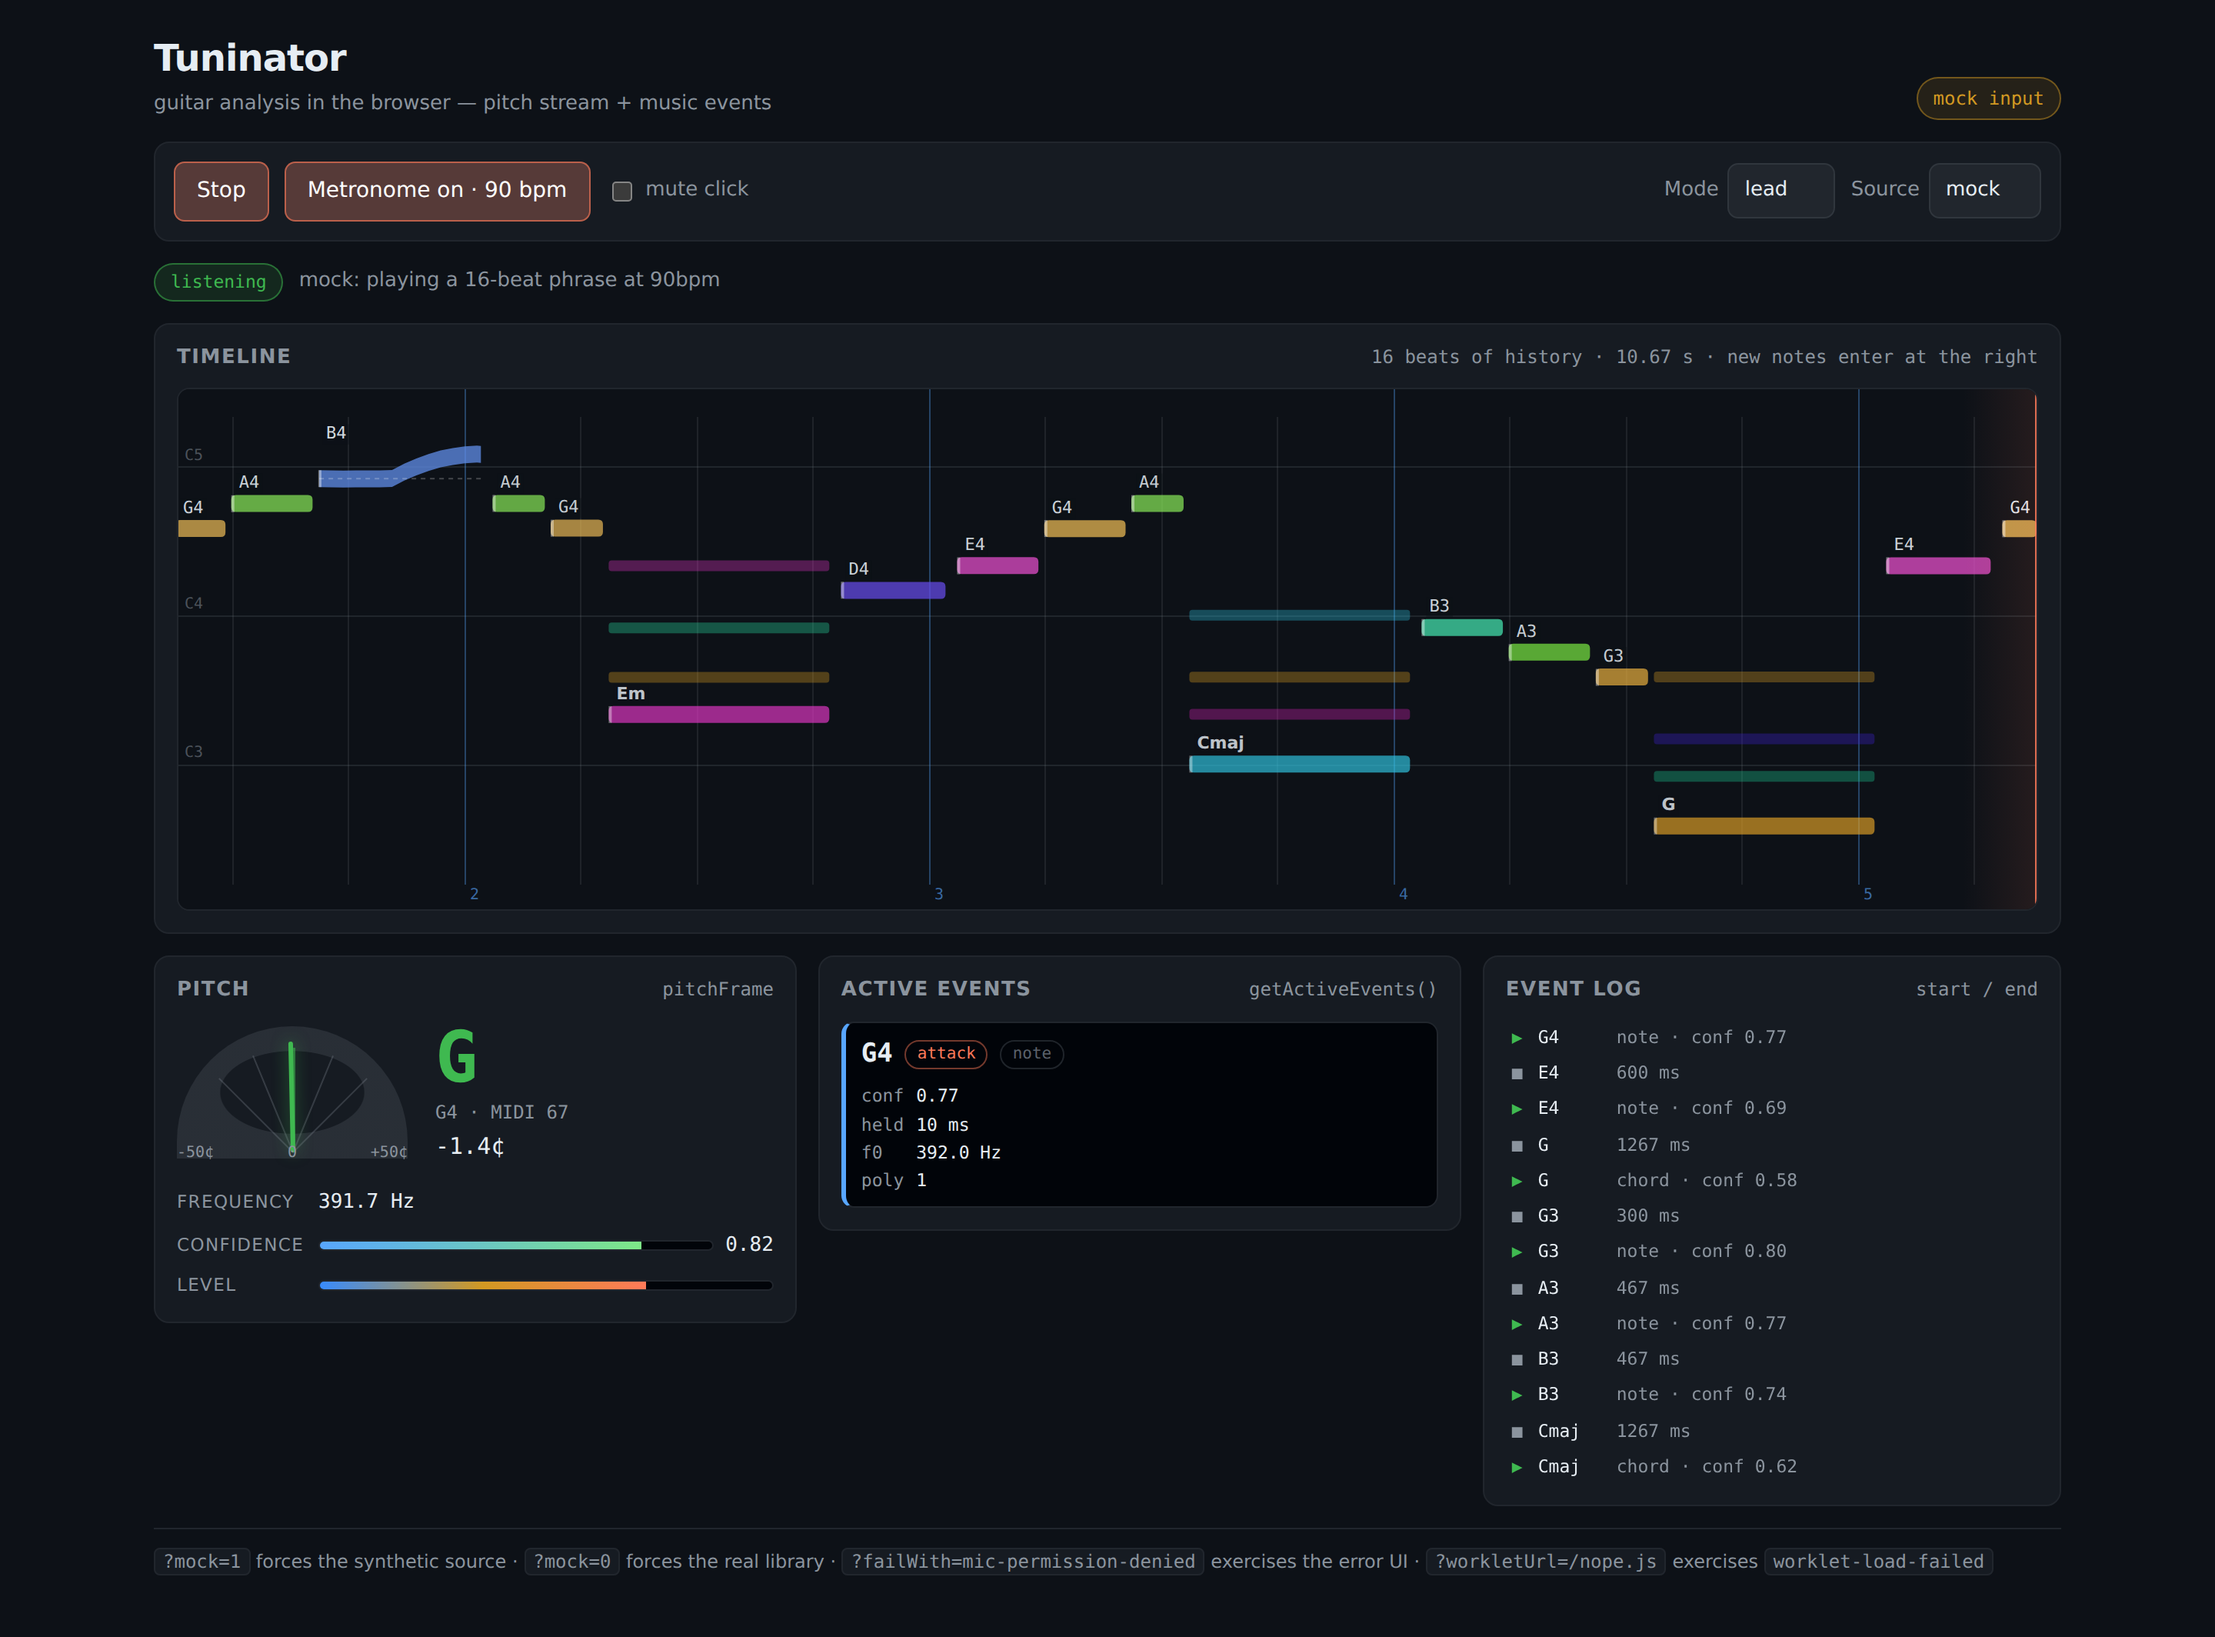
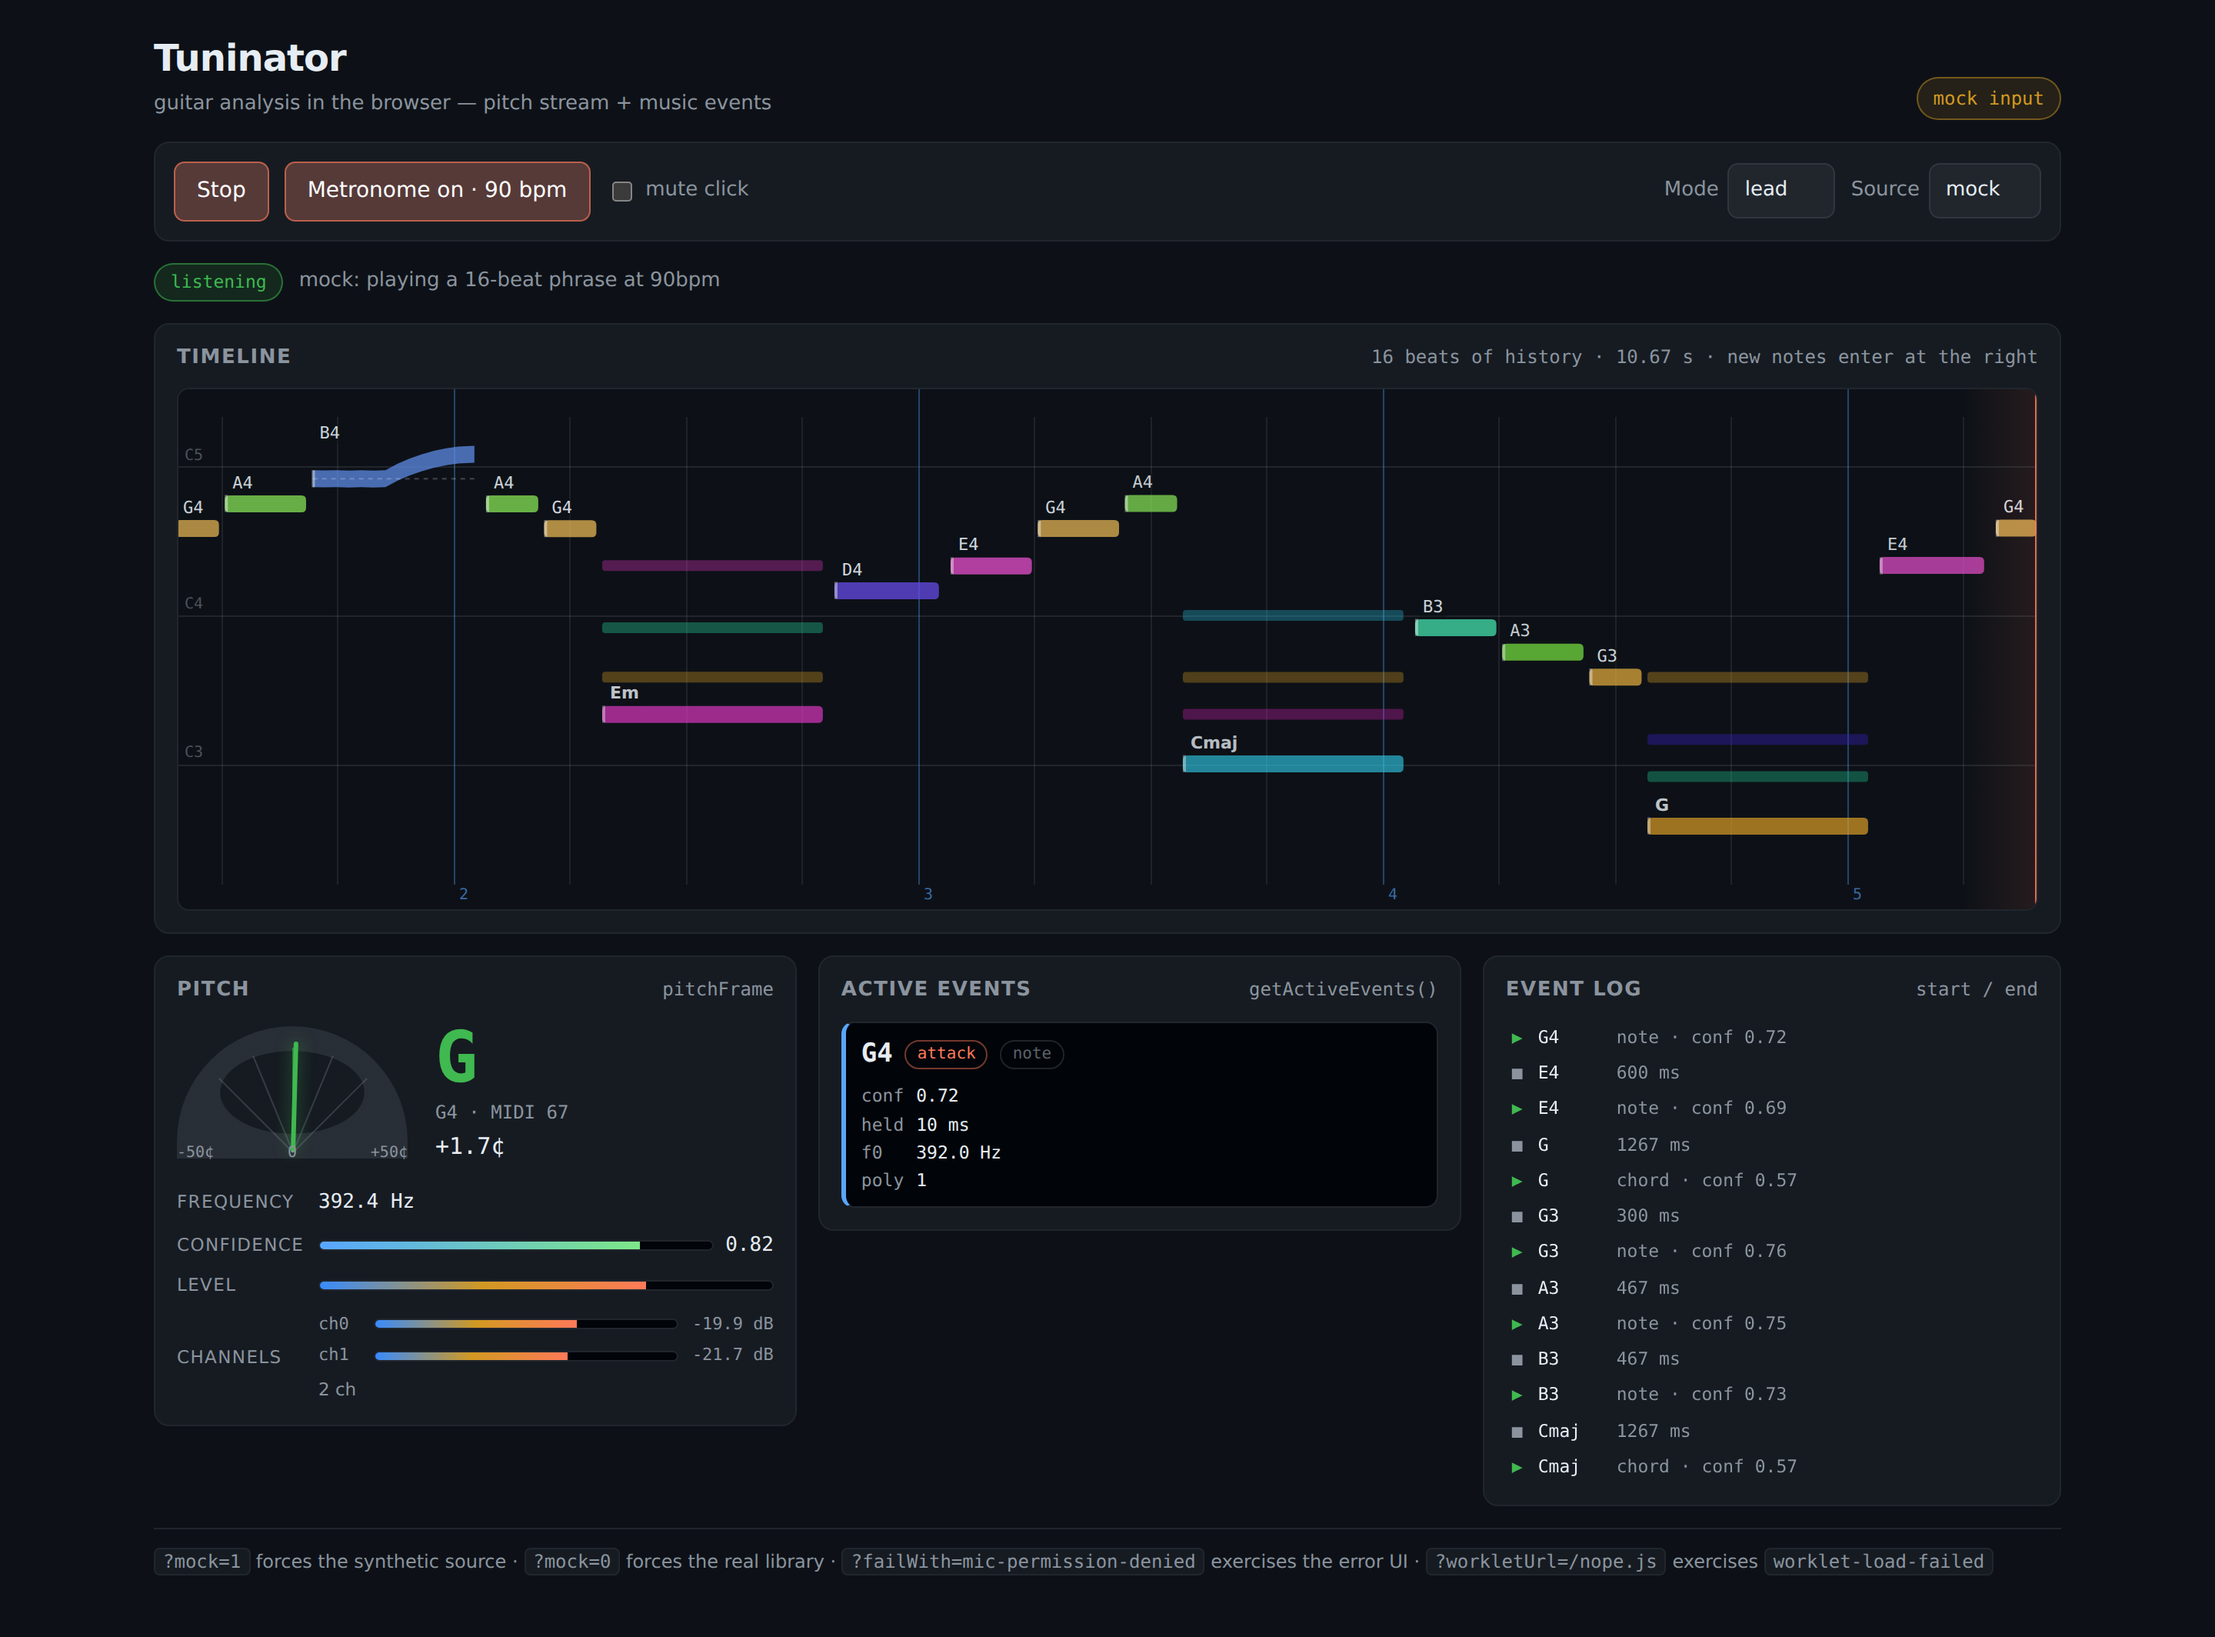
Show per-input-channel levels so a dead channel is visible
A CHANNELS row under LEVEL: one meter per input channel with dBFS, a silent
channel drawn red, and a note reading "2 ch · signal on 1 of 2" / "1 ch · mono
capture" / "2 ch".

This exists because the failure it diagnoses is invisible. A 2-in interface
presents as one stereo device and an instrument in input 2 lands entirely on
channel 1; a UI showing only the mixed level cannot tell "no signal" from
"signal on a channel nobody read", and both look exactly like a broken
detector. The 1-channel case is stated but not flagged as a problem -- a
laptop's built-in mic really is mono.

Also adds a stereo regression check to scripts/smoke.mjs: it shims
getUserMedia with a real synthetic two-channel stream (220Hz on channel 1,
channel 0 unconnected) and drives the demo's live path end to end, asserting
the tone is still detected and that the UI marks channel 0 silent. Channel 0
measures exactly zero, so the pre-fix code would have gated to null forever --
this fails on the old behaviour rather than merely passing on the new.

The mock source now carries a healthy stereo channelRms so the widget is live
in the default demo.

diff --git a/src/ui.ts b/src/ui.ts
@@ -114,6 +114,10 @@ export class Ui {
   #confidenceFill: HTMLElement;
   #confidenceValue: HTMLElement;
   #levelFill: HTMLElement;
+  #channelMeters: HTMLElement;
+  #channelNote: HTMLElement;
+  /** Bars currently in the DOM, rebuilt only when the channel count changes. */
+  #channelBars: HTMLElement[] = [];
 
   #activeEvents: HTMLElement;
   #eventLog: HTMLElement;
@@ -149,6 +153,9 @@ export class Ui {
     this.#confidenceFill = must("confidence-fill");
     this.#confidenceValue = must("confidence-value");
     this.#levelFill = must("level-fill");
+    this.#channelMeters = must("channel-meters");
+    this.#channelNote = must("channel-note");
+    this.#channelMeters.parentElement?.classList.add("stacked");
 
     this.#activeEvents = must("active-events");
     this.#eventLog = must("event-log");
@@ -285,6 +292,91 @@ export class Ui {
     const rms = frame.amplitude.rms;
     const level = rms <= 0 ? 0 : clamp((20 * Math.log10(rms) + 60) / 60, 0, 1);
     this.#levelFill.style.width = `${(level * 100).toFixed(1)}%`;
+
+    this.#renderChannels(frame.channelRms);
+  }
+
+  /**
+   * Per-input-channel level, straight from `PitchFrame.channelRms`.
+   *
+   * The library sums every input channel before analysing, which is the right
+   * default but hides the one thing a user needs when nothing is detected: a
+   * 2-in interface is a single stereo device, an instrument in input 2 is on
+   * channel 1 alone, and a browser that captured only channel 0 produces the
+   * exact same screen as a broken detector. Showing the channels separately
+   * turns that into something you can see in a second.
+   */
+  #renderChannels(channelRms: number[] | undefined): void {
+    if (!channelRms || channelRms.length === 0) {
+      if (this.#channelBars.length > 0) {
+        this.#channelMeters.replaceChildren();
+        this.#channelBars = [];
+      }
+      this.#channelNote.textContent = "—";
+      delete this.#channelNote.dataset["warn"];
+      return;
+    }
+
+    if (this.#channelBars.length !== channelRms.length) {
+      this.#channelMeters.replaceChildren();
+      this.#channelBars = channelRms.map((_, index) => {
+        const row = document.createElement("div");
+        row.className = "channel-row";
+
+        const label = document.createElement("span");
+        label.className = "channel-label";
+        label.textContent = `ch${index}`;
+
+        const meter = document.createElement("div");
+        meter.className = "meter";
+        const fill = document.createElement("div");
+        fill.className = "meter-fill level";
+        meter.append(fill);
+
+        const db = document.createElement("span");
+        db.className = "channel-db";
+        db.textContent = "−∞ dB";
+
+        row.append(label, meter, db);
+        this.#channelMeters.append(row);
+        return row;
+      });
+    }
+
+    let live = 0;
+    for (const [index, rms] of channelRms.entries()) {
+      const row = this.#channelBars[index];
+      if (!row) continue;
+      const fill = row.querySelector<HTMLElement>(".meter-fill");
+      const db = row.querySelector<HTMLElement>(".channel-db");
+      const dbfs = rms <= 0 ? Number.NEGATIVE_INFINITY : 20 * Math.log10(rms);
+      // -60 dBFS is the floor the summed level meter above uses too.
+      const silent = !(dbfs > -60);
+      if (!silent) live += 1;
+      if (fill) fill.style.width = `${(clamp((dbfs + 60) / 60, 0, 1) * 100).toFixed(1)}%`;
+      if (db) db.textContent = silent ? "−∞ dB" : `${dbfs.toFixed(1)} dB`;
+      row.dataset["silent"] = silent ? "yes" : "no";
+    }
+
+    const count = `${channelRms.length} ch`;
+    if (channelRms.length > 1 && live === 0) {
+      this.#channelNote.textContent = `${count} · nothing on any channel`;
+      this.#channelNote.dataset["warn"] = "yes";
+    } else if (channelRms.length > 1 && live < channelRms.length) {
+      this.#channelNote.textContent = `${count} · signal on ${live} of ${channelRms.length}`;
+      this.#channelNote.dataset["warn"] = "yes";
+    } else if (channelRms.length === 1) {
+      // Named rather than warned about: a built-in laptop microphone really is
+      // mono, so an amber banner here would cry wolf for most people. On a 2-in
+      // interface the same words mean the browser captured one channel and
+      // input 2 never reached the page at all -- which is exactly the question
+      // this row exists to answer.
+      this.#channelNote.textContent = "1 ch · mono capture";
+      delete this.#channelNote.dataset["warn"];
+    } else {
+      this.#channelNote.textContent = count;
+      delete this.#channelNote.dataset["warn"];
+    }
   }
 
   #renderActiveEvents(events: MusicEvent[]): void {

diff --git a/src/styles.css b/src/styles.css
@@ -474,6 +474,63 @@ body {
   background: linear-gradient(90deg, #388bfd, var(--near), var(--accent-warm));
 }
 
+/* ---------- per-input-channel meters ---------- */
+
+.meters dd.stacked {
+  flex-direction: column;
+  align-items: stretch;
+  gap: 5px;
+}
+
+.channel-meters {
+  display: flex;
+  flex-direction: column;
+  gap: 4px;
+  width: 100%;
+}
+
+.channel-row {
+  display: flex;
+  align-items: center;
+  gap: 8px;
+}
+
+.channel-row .channel-label,
+.channel-row .channel-db {
+  font-family: var(--font-mono);
+  font-size: 11px;
+  color: var(--text-muted);
+}
+
+.channel-row .channel-label {
+  min-width: 28px;
+}
+
+.channel-row .channel-db {
+  min-width: 54px;
+  text-align: right;
+}
+
+/* A channel that never leaves the floor is the whole point of this row, so make
+   it unmistakable rather than just a bar that happens to be short. */
+.channel-row[data-silent="yes"] .meter-fill {
+  background: var(--border);
+}
+
+.channel-row[data-silent="yes"] .channel-label,
+.channel-row[data-silent="yes"] .channel-db {
+  color: var(--bad);
+}
+
+.channel-note {
+  font-size: 11.5px;
+  color: var(--text-muted);
+}
+
+.channel-note[data-warn="yes"] {
+  color: var(--near);
+}
+
 /* ---------- active events ---------- */
 
 .active-events {

diff --git a/src/mock-tuninator.ts b/src/mock-tuninator.ts
@@ -572,6 +572,9 @@ class MockTuninator implements Tuninator {
         confidence: 0.04 + Math.abs(jitter(t, 0.06)),
         nearest: null,
         amplitude: { rms: 0.0015 + Math.abs(jitter(t, 0.001)), peak: 0.006 },
+        // Stands in for a healthy stereo capture, so the per-channel meters
+        // show what a working 2-in interface looks like.
+        channelRms: [0.001 + Math.abs(jitter(t, 0.0008)), 0.0012 + Math.abs(jitter(t + 7, 0.0008))],
         detector: {
           tau: null,
           cmnd: null,
@@ -606,6 +609,7 @@ class MockTuninator implements Tuninator {
         rms: 0.02 + envelope * 0.16,
         peak: 0.05 + envelope * 0.38,
       },
+      channelRms: [0.014 + envelope * 0.11, 0.011 + envelope * 0.09],
       detector: {
         tau: EFFECTIVE_SAMPLE_RATE / frequencyHz,
         cmnd: clamp01(1 - confidence) * 0.35,

diff --git a/index.html b/index.html
@@ -114,6 +114,20 @@
             <dd>
               <div class="meter"><div class="meter-fill level" id="level-fill"></div></div>
             </dd>
+
+            <!--
+              Per-input-channel level, from PitchFrame.channelRms.
+
+              A 2-in interface is a single stereo device to the browser, so an
+              instrument in input 2 arrives only on channel 1. Without this row
+              a dead channel and a dead detector look identical: no pitch, no
+              confidence, a flat level meter, and no error anywhere.
+            -->
+            <dt>channels</dt>
+            <dd>
+              <div class="channel-meters" id="channel-meters"></div>
+              <span class="channel-note" id="channel-note">—</span>
+            </dd>
           </dl>
         </section>
 
